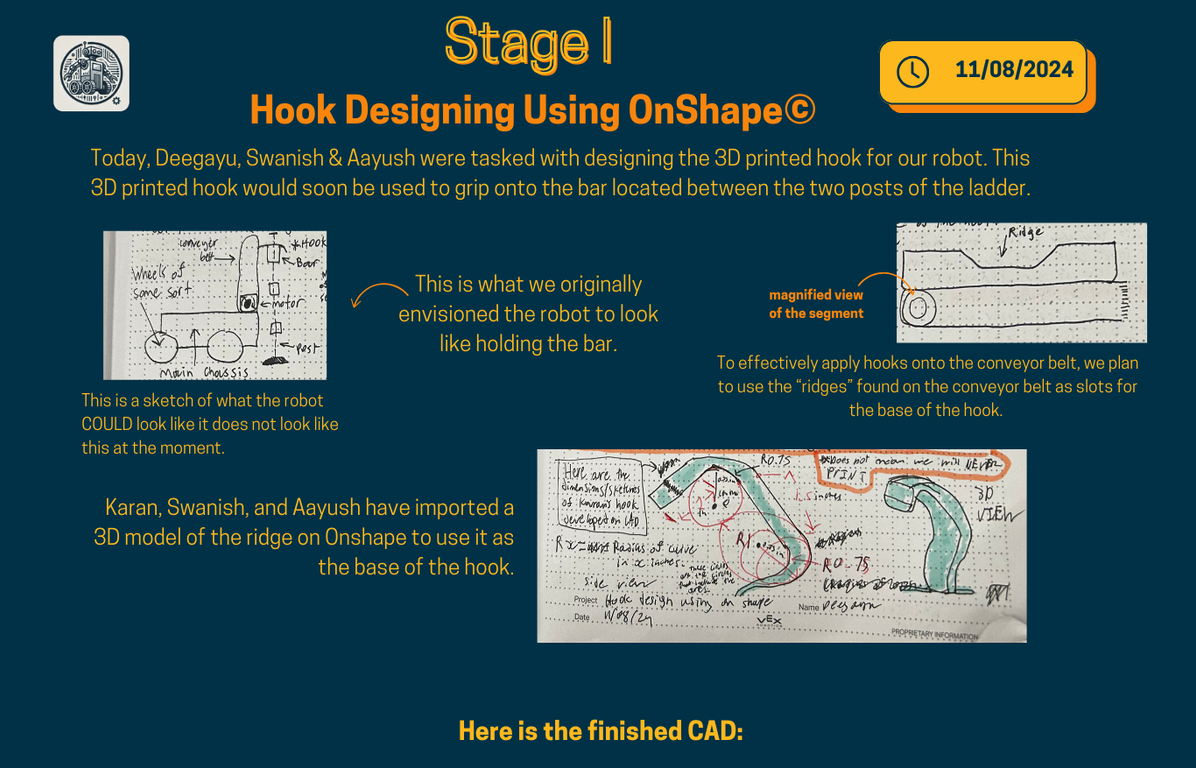
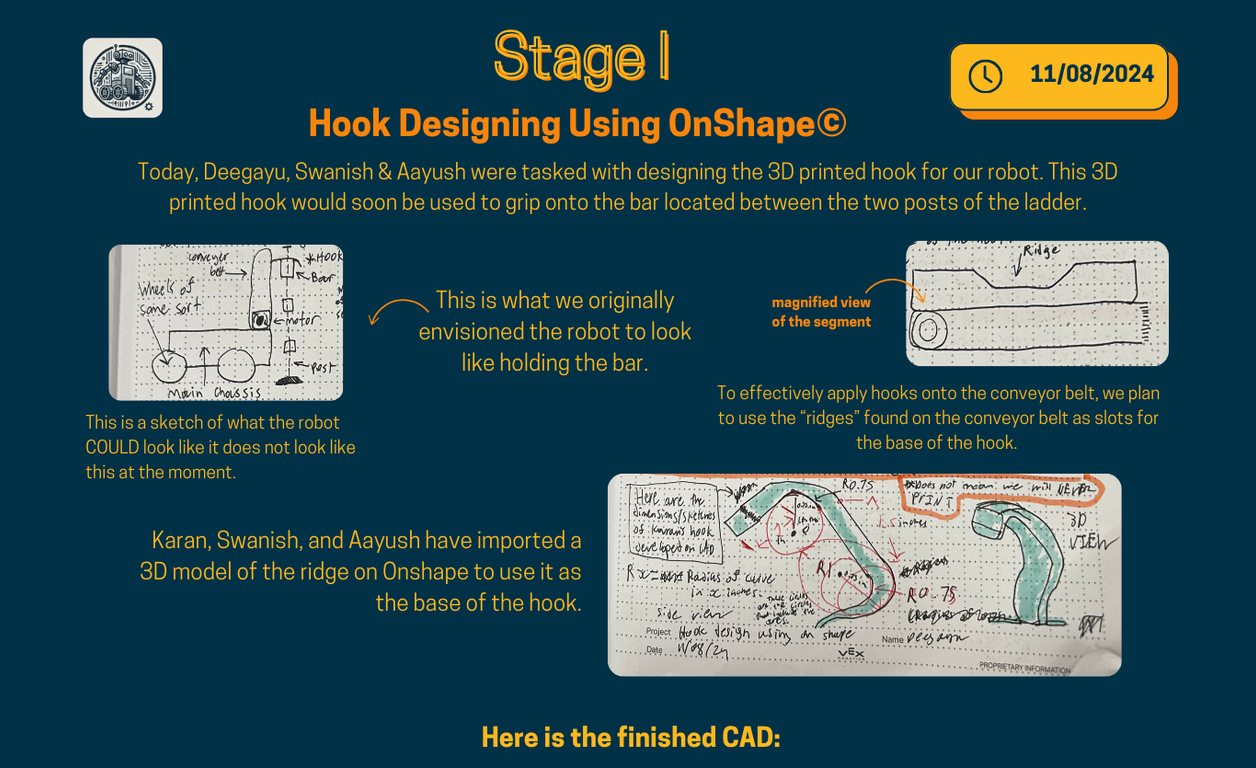
fixed image formatting

diff --git a/src/pages/Steps.css b/src/pages/Steps.css
@@ -166,9 +166,10 @@
   }
 
   .bg-image {
-    width: 90vw; 
+    width: 95vw; 
     height: auto; 
-    display: block; 
+    display: block;
+    margin: 0 auto; 
 }
 
 /* In Steps.css */
